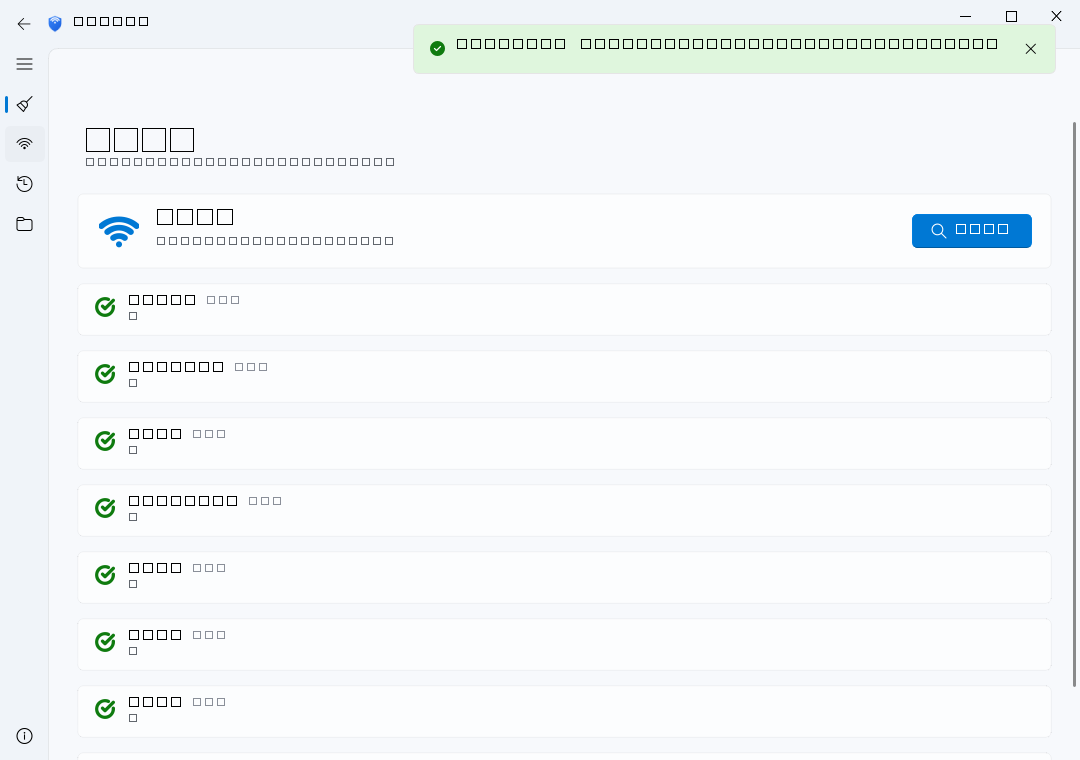
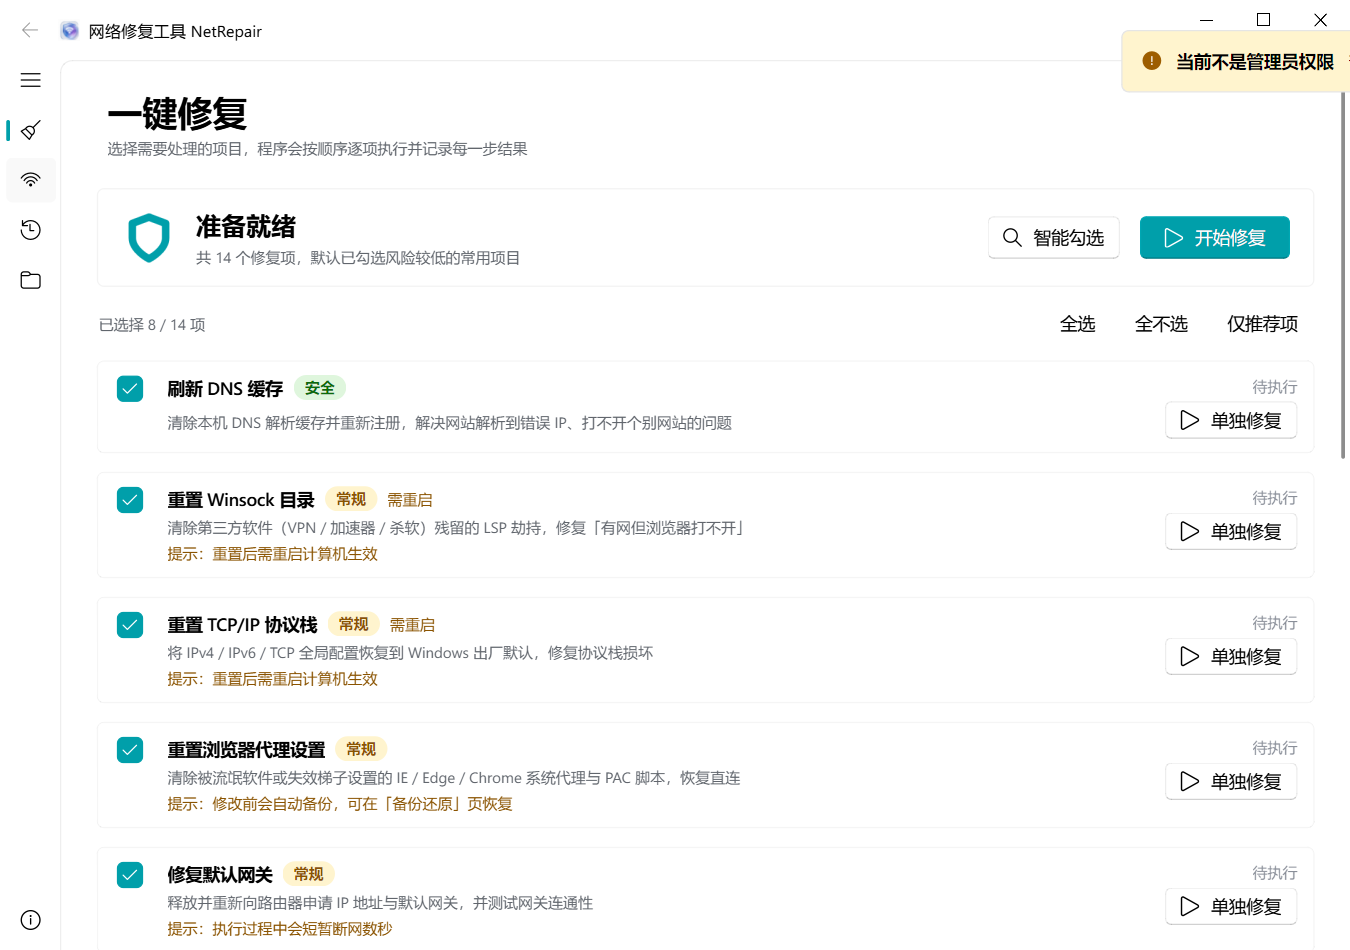
fix: replace garbled README screenshots with properly rendered Chinese versions
The previous screenshots showed □□□□ mojibake because they were captured
without Chinese font support. Re-generated all 5 images using Microsoft YaHei UI
font via an automated screenshot script (screenshot.py).

diff --git a/screenshot.py b/screenshot.py
@@ -1,0 +1,134 @@
+"""自动截图脚本：为 README 生成 5 张界面截图。
+
+用法：
+    venv\\Scripts\\python.exe screenshot.py
+
+输出：
+    shots/fluent-about.png
+    shots/fluent-repair.png
+    shots/fluent-diagnose.png
+    shots/fluent-backup.png
+    shots/fluent-accent-blue.png（主题色切换页）
+"""
+from __future__ import annotations
+
+import os
+import sys
+
+# ---- 路径设置 ----
+ROOT = os.path.dirname(os.path.abspath(__file__))
+sys.path.insert(0, ROOT)
+os.chdir(ROOT)
+
+# 跳过管理员提权，截图不需要
+sys.argv.append("--no-elevate")
+
+from PySide6.QtCore import Qt, QTimer
+from PySide6.QtGui import QColor, QFont, QFontDatabase
+from PySide6.QtWidgets import QApplication
+from qfluentwidgets import setThemeColor
+
+from netfix.ui import MainWindow
+
+SHOTS_DIR = os.path.join(ROOT, "shots")
+os.makedirs(SHOTS_DIR, exist_ok=True)
+
+# 截图配置：(文件名, routeKey, 说明)
+SHOTS = [
+    ("fluent-repair.png",   "repairInterface",   "一键修复（首页）"),
+    ("fluent-diagnose.png", "diagnoseInterface", "网络诊断"),
+    ("fluent-backup.png",   "backupInterface",   "备份还原"),
+    ("fluent-about.png",    "aboutInterface",    "关于"),
+]
+
+
+def setup_chinese_font(app: QApplication) -> None:
+    """强制使用系统中文字体，解决 offscreen/沙箱中文渲染为方框的问题。"""
+    # 优先级列表：Windows 常见中文字体
+    fallbacks = [
+        "Microsoft YaHei UI",
+        "Microsoft YaHei",
+        "SimHei",
+        "PingFang SC",
+        "Noto Sans CJK SC",
+        "WenQuanYi Micro Hei",
+    ]
+
+    # 尝试从系统字体库查找第一个可用的中文字体
+    families = QFontDatabase.families()
+    chosen = None
+    for font_name in fallbacks:
+        if font_name in families:
+            chosen = font_name
+            break
+
+    if chosen:
+        font = QFont(chosen, 9)
+        app.setFont(font)
+        print(f"Font set: {chosen}")
+    else:
+        print(f"WARNING: No Chinese font found. Available sample: {families[:10]}")
+        # 退而求其次：用默认字体但设大一点
+        font = app.font()
+        font.setFamilies(["Microsoft YaHei UI", "Sans Serif"])
+        app.setFont(font)
+
+
+def grab_window(window: MainWindow, path: str) -> None:
+    window.repaint()
+    QApplication.processEvents()
+
+    pixmap = window.grab()
+    full_path = os.path.join(SHOTS_DIR, path)
+    pixmap.save(full_path, "PNG")
+    size_kb = os.path.getsize(full_path) / 1024
+    print(f"  OK {path} ({pixmap.width()}x{pixmap.height()}, {size_kb:.0f} KB)")
+
+
+def main() -> int:
+    app = QApplication(sys.argv)
+    setup_chinese_font(app)
+
+    window = MainWindow()
+    window.resize(1080, 760)
+    window.show()
+    QApplication.processEvents()
+
+    for _ in range(30):
+        QApplication.processEvents()
+
+    print("Screenshot start...\n")
+
+    nav = window.navigationInterface
+
+    for filename, route_key, desc in SHOTS:
+        nav.setCurrentItem(route_key)
+        QApplication.processEvents()
+        for _ in range(15):
+            QApplication.processEvents()
+
+        grab_window(window, filename)
+        print(f"  -> {desc}\n")
+
+    # === 第 5 张：蓝色主题色 + 修复页 ===
+    print("Switching to BLUE theme...")
+    setThemeColor(QColor("#0094BC"))
+    QApplication.processEvents()
+    for _ in range(20):
+        QApplication.processEvents()
+
+    nav.setCurrentItem("repairInterface")
+    QApplication.processEvents()
+    for _ in range(15):
+        QApplication.processEvents()
+
+    grab_window(window, "fluent-accent-blue.png")
+    print("  -> Theme color (BLUE) + Repair page\n")
+
+    window.close()
+    print("All done! Screenshots saved to shots/")
+    return 0
+
+
+if __name__ == "__main__":
+    sys.exit(main())
